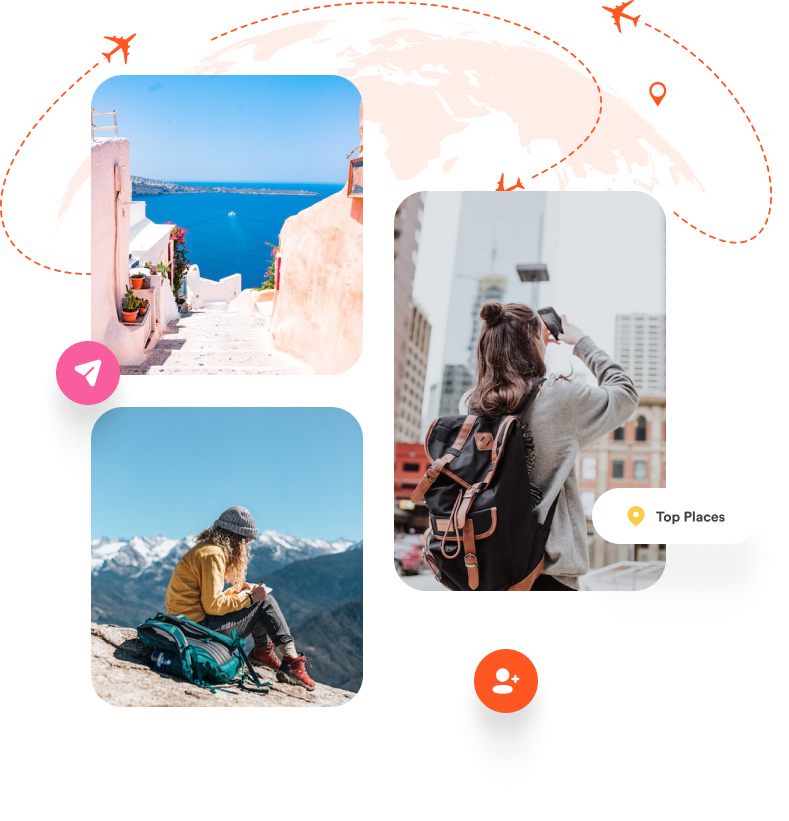
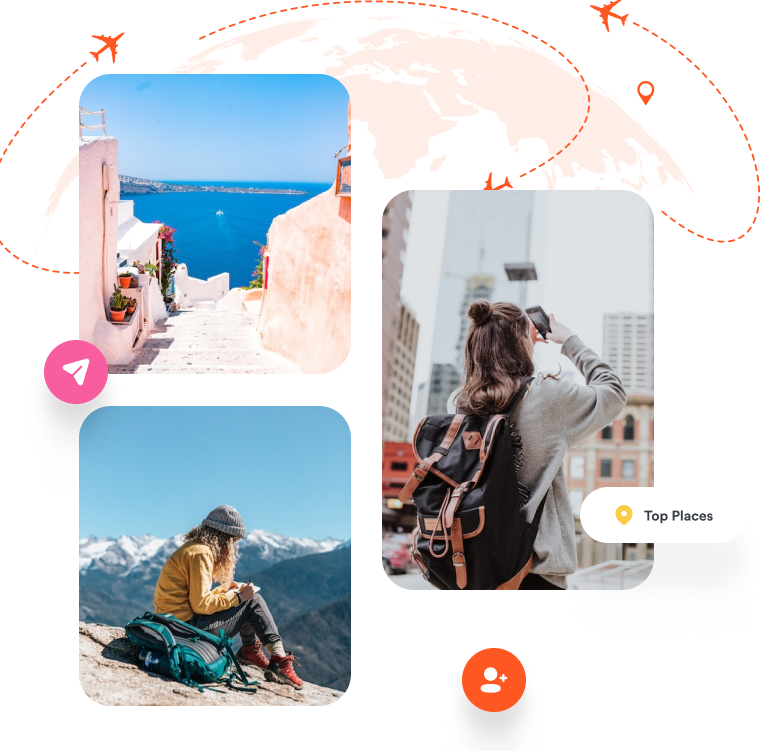
11_21_16_22

diff --git a/landing page/assets/style.css b/landing page/assets/style.css
@@ -1,18 +1,18 @@
  @font-face {
     font-family: "CircularSTD";
-    src: url('./fonts/circularstd-book-webfont.woff') format('woff');
+    src: url(./fonts/circularstd-book-webfont.woff) format('woff');
     font-weight: 300;
 }
 
 @font-face {
     font-family: "CircularSTD";
-    src: url('./fonts/circularstd-bold-webfont.woff') format('woff');
+    src: url(./fonts/circularstd-bold-webfont.woff) format('woff');
     font-weight: 600;
 }
 
 @font-face {
     font-family: "CircularSTD";
-    src: url('./fonts/circularstd-black-webfont.woff') format('woff');
+    src: url(./fonts/circularstd-black-webfont.woff) format('woff');
     font-weight: 800;
 }
 
@@ -35,6 +35,7 @@ header {
 
 nav.navbar {
     font-size: 14px;
+    display: none;
 }
 
 nav.navbar a {
@@ -115,12 +116,45 @@ nav.navbar li.active a {
     gap: .5rem;
 }
 
-.btn-outline-primary::before {
+.btn-outline-primary::after {
     content: "";
     background: url(./icons/play-circle.5\ 1.svg) no-repeat center center;
     width: 24px;
     height: 24px;
     display: block;
 }
+.hamburger {
+    border: none;
+    width: 48px;
+    height: 49px;
+    background: url(./icons/burger.svg) no-repeat center center;
+}
 
+@media screen and (min-width: 992px ) {
+    nav.navbar {
+        display:block;
+    }
+}
+@media screen and (max-width: 992px ){
+    nav.navbar {
+        position: fixed;
+        top: 0;
+        left: 0;
+        background: white;
+        padding: 1rem;
+        z-index: 1000;
+        height: 100vh;
+        width: 280px;
+
+    }
+    nav.navbar::after {
+        content: "";
+        position: fixed;
+        top: 0;
+        right: 0;
+        background-color: rgba(0, 0, 0, 0.3);
+        width: calc(100vw - 280px);
+        height: 100vh;
+    }
+}
 

diff --git a/landing page/LandingPage.html b/landing page/LandingPage.html
@@ -14,7 +14,10 @@
 <body>
     <header>
         <header>
-            <div class="container-lg d-flex justify-content-between align-items-center flex-row-reverse flex-md-row">
+            <div class="container-lg d-flex justify-content-between align-items-center ">
+                <div class="d-block d-lg-none menu">
+                    <button class="hamburger"></button>
+                </div>
                 <div class="logo">
                     <img src="assets/logos/Frame 1.svg" alt="Travlog"/>
                 </div>
@@ -39,9 +42,9 @@
     </header>
     <main>
         <section class="home">
-            <div class="container">
-                <div class="row">
-                    <div class="col-4 pt-5">
+            <div class="container-lg">
+                <div class="row flex-wrap-reverse flex-lg-wrap">
+                    <div class="col-lg-5 col-xl-4 col-12 pt-5">
                         <div class="link">
                             <a href="#" class="btn btn-shadow ">Explore the world!</a>
                         </div>
@@ -52,8 +55,8 @@
                             <a href="#" class="btn btn-outline-primary "> Watch Demo</a>
                         </div>
                     </div>
-                    <div class="col-8">
-                        <img src="assets/pics/Home.png" alt="Home" />
+                    <div class="col-lg-7 col-xl-8 col-12">
+                        <img src="assets/pics/Home.png" alt="Home" style="margin-bottom: -15%;" />
                     </div>
                 </div>
             </div>
